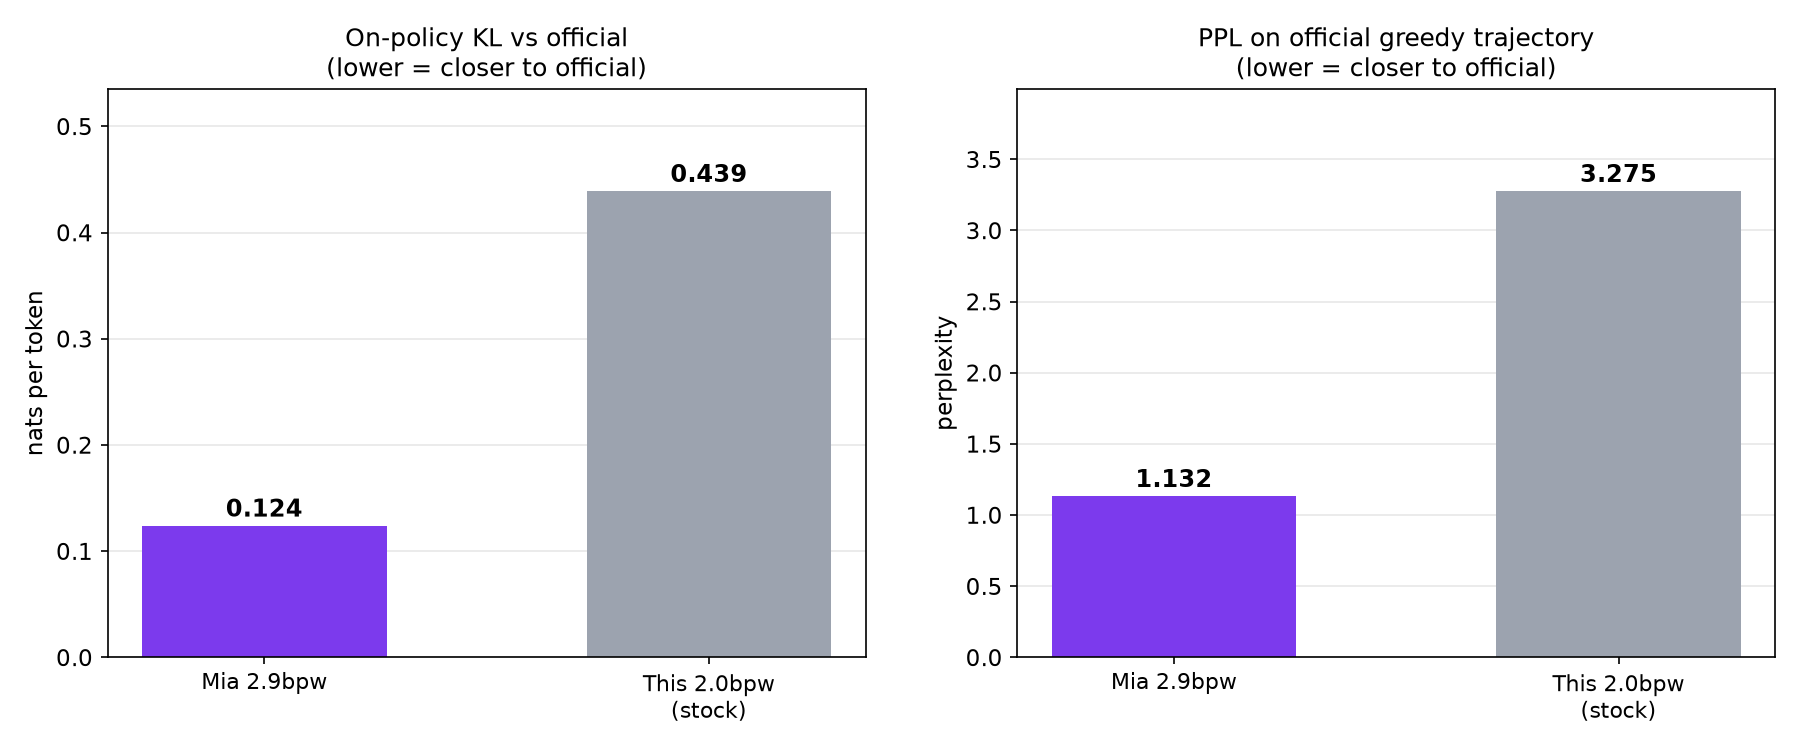
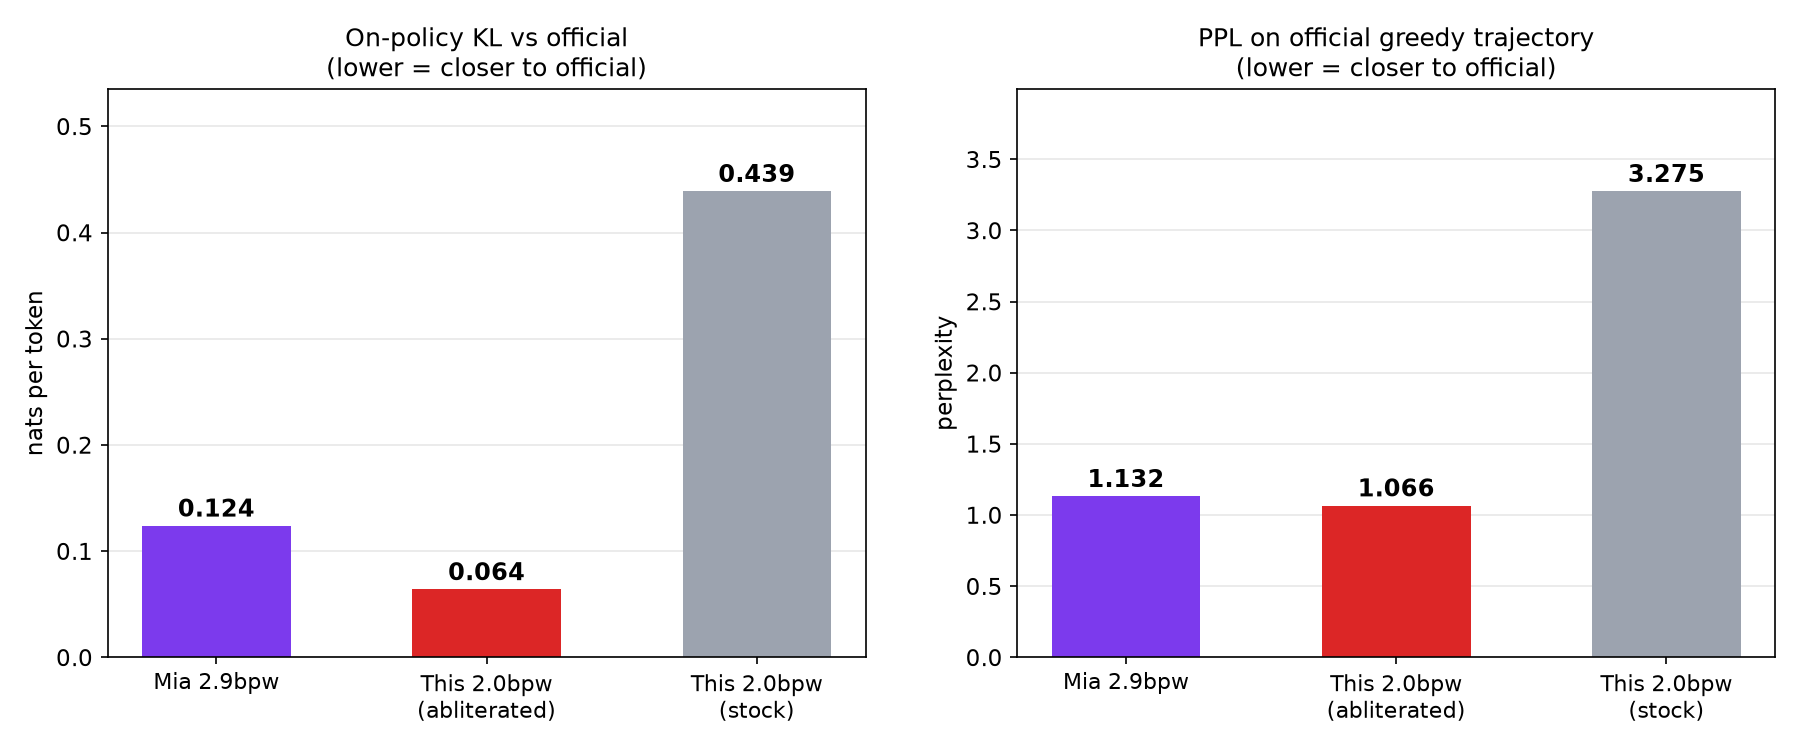
bench 2026-09-18: decode-window ladder (real numbers, prefill-queuing diagnosis), abliterated divergence KL 0.064/PPL 1.066 (closest to official), 512K loop, warm-boot receipt

Changed region(s): [[0.5911, 0.2147, 0.9644, 0.9813], [0.0933, 0.2147, 0.4667, 0.9813]]

diff --git a/README.md b/README.md
@@ -31,6 +31,7 @@ the comparison section with charts.
 | GSM8K, 50-problem test slice | 92.0% (46/50) | **96.0%** (48/50) |
 | Loop battery v1, short context | 0/8 | 0/8 |
 | Loop battery v1, 400K-token prefill | 0/8 | **1/8** (`enum` prompt, ttr 0.20) |
+| Loop battery, 512K-token prefill (2026-09-18) | - | **1/8** (12%) |
 | Decode @2K, single stream | 92-94 tok/s | 89.4 tok/s |
 | Concurrency, 8x46K warm | 244-249 tok/s | 260.2 tok/s (superseded - see caveat) |
 | Concurrency, 12x46K | ~~17.3 tok/s (collapse)~~ | **measurement artifact - retracted, see below** |
@@ -84,7 +85,7 @@ multi-turn agentic soak, any safety red-team.
 Serves WITHOUT an API key by default. To require a Bearer token, set `API_KEY`
 in the environment or `serve/serve.env` (see `serve/serve.env.example`).
 
-Boot is 12-15 min from cold page cache (48 shards + JIT + graph capture).
+Boot is 12-15 min from cold page cache (48 shards + JIT + graph capture); 5-6 min with a warm page cache (measured 2026-09-18).
 After every boot, fire one small request before loading real work: the first
 heavy batched request runs at a tenth of speed once (JIT/Engram path warmup).
 
@@ -134,7 +135,7 @@ gated on everything in the testing section above, not the full matrix.
 |---|---|---|
 | Decode, single stream, 2K ctx | 92-94 tok/s stock, 89.4 tok/s abliterated | bench, non-stream |
 | Prefill, 46K ctx | 1622-1840 tok/s | bench TTFT |
-| Concurrency aggregate decode, 8 streams @46K warm | 244-249 tok/s (31/stream) | warm-cache 2-phase (stock pack) |
+| Concurrency, decode-window (co-resident streaming, 2026-09-18) | 8x46K: 16.6 agg (2.1/stream) - 12x46K: 15.8 - 16x46K: 15.5 - 8x100K: 7.7 - 8x200K: 3.9 tok/s; TTFT p50 130-588s | decode-window bench; prefill-queuing dominated - see docs/BENCH.md |
 | Warm-turn prefill, 12.7K prefix | 5.85 s -> 0.53-0.67 s (8-11x) | identical-prompt gate |
 | Vision | red/blue split + two-image identification correct | image tests |
 | Loop battery v1 (greedy, temp 0, 1500 tokens) | 0/8 loops | loop_rate.py |
@@ -210,12 +211,16 @@ disabled for the trajectory capture.
 |---|---|---|---|---|---|---|---|
 | Official DeepSeek API | 98.0 | 20/20 | 1/10 | 3/3 | reference | reference | reference |
 | Mia EXL3 2.9bpw | 96.0 | 20/20 | 1/10 | 3/3 | 0.1238 | 1.132 | 0.984 |
-| **This 2.0bpw (abliterated)** | 96.0 | 2/20 | 1/10 | 2/3 | - | - | - |
+| **This 2.0bpw (abliterated)** | 96.0 | 2/20 | 1/10 | 2/3 | **0.0640** | **1.066** | **0.985** |
 | This 2.0bpw (stock, earlier session) | 92.0 | 20/20 | 0/10 | - | 0.4389 | 3.275 | 0.771 |
 
 The stock 2.0bpw KL/PPL row is from an earlier session (replay harness,
 165K tokens); it is the quantization-only reference point. The abliterated
-row is measured on the exact shipped weights.
+row is measured on the exact shipped weights - divergence re-measured
+2026-09-18 on the relaunched serve (n=3,957 trajectory positions, one
+junction skipped): **KL 0.0640 nats/tok, PPL 1.066, top-1 agreement 0.985 -
+the abliterated 2.0bpw checkpoint is the closest-to-official arm measured,
+ahead of the 2.9bpw reference**.
 
 ![gsm8k](charts/gsm8k.png)
 

diff --git a/docs/BENCH.md b/docs/BENCH.md
@@ -911,3 +911,52 @@ box is back (see docs/ROOT-CAUSES.md outage note).
 max_tokens caps reasoning + answer together. Official arm at mt=1200 scored
 82.0% (avg 293 reasoning tokens - truncation before answering); at mt=8000 it
 scores 98.0%. All quality-matrix arms use mt=8000.
+
+## 2026-09-18 addendum: decode-window concurrency ladder + abliterated divergence
+
+Serve relaunched 00:20 NZ with the verified healthy-arm recipe (boot to
+startup-complete: 5m20s warm page cache; single-stream decode re-verified
+~93 tok/s). Engine flags byte-identical to the 16.5h healthy boot of 09-16
+(release snapshot 37e8ab3); only drift = API-key-required + inert
+DOCKER_MEM hook.
+
+### Decode-window concurrency ladder (coresident2, streaming, thinking-off)
+
+Fired N distinct ~CTX-token documents simultaneously; aggregate = completion
+tokens / (last final-token - first first-token). 400 decode tokens/stream.
+
+| Rung | Aggregate tok/s | Per-stream | TTFT min | TTFT p50 | TTFT max |
+|---|---:|---:|---:|---:|---:|
+| 8 x 46K | 16.6 | 2.1 | 26.8s | 130.5s | 209.8s |
+| 12 x 46K | 15.8 | 1.3 | 27.9s | 185.9s | 324.0s |
+| 16 x 46K | 15.5 | 1.0 | 28.0s | 244.5s | 431.9s |
+| 8 x 100K | 7.7 | 1.0 | 58.3s | 290.7s | 464.3s |
+| 8 x 200K | 3.9 | 0.5 | 117.6s | 587.9s | 940.1s |
+
+Reading: aggregate is prefill-queuing dominated - N deep prefills serialize
+through the ~5,000 tok/s prefill budget while decode trickles between chunks
+(engine-side: KV pool peaks at 11.9%, NVMe idle during decode windows). The
+earlier ">8 agents collapse" observation is this effect, not KV exhaustion
+and not a decode-capacity cliff. Fix class = decode-floor fair mixing of
+prefill and decode (as shipped in GLM kit 1.5.0); not ported here yet.
+
+Engine log during rungs: Running caps at MAX_NUM_SEQS=8; raise the knob for
+>8 co-resident agents.
+
+### Abliterated arm divergence (kld2_local, on-policy replay)
+
+n=3,957 trajectory positions (one junction mismatch skipped), greedy,
+thinking disabled on the official capture side:
+
+| Metric | Value |
+|---|---|
+| KL vs official | **0.06395 nats/tok** |
+| Trajectory PPL | **1.0660** |
+| Top-1 agreement | **0.985** |
+
+The abliterated checkpoint is the closest-to-official arm measured, ahead of
+the 2.9bpw reference (KL 0.1238 / PPL 1.132 / top1 0.984).
+
+### Loop battery, 512K depth (abliterated arm)
+
+1/8 looped (12%), 8 prompts scored.
